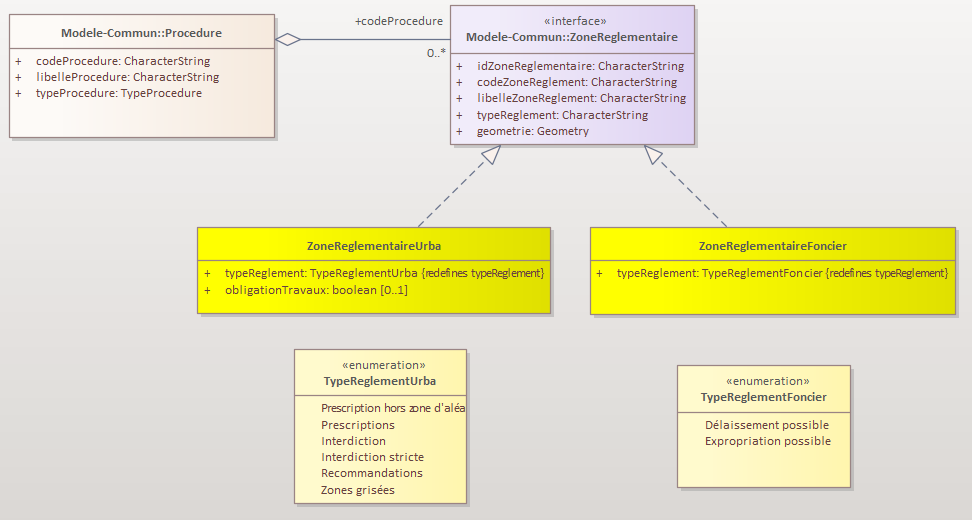
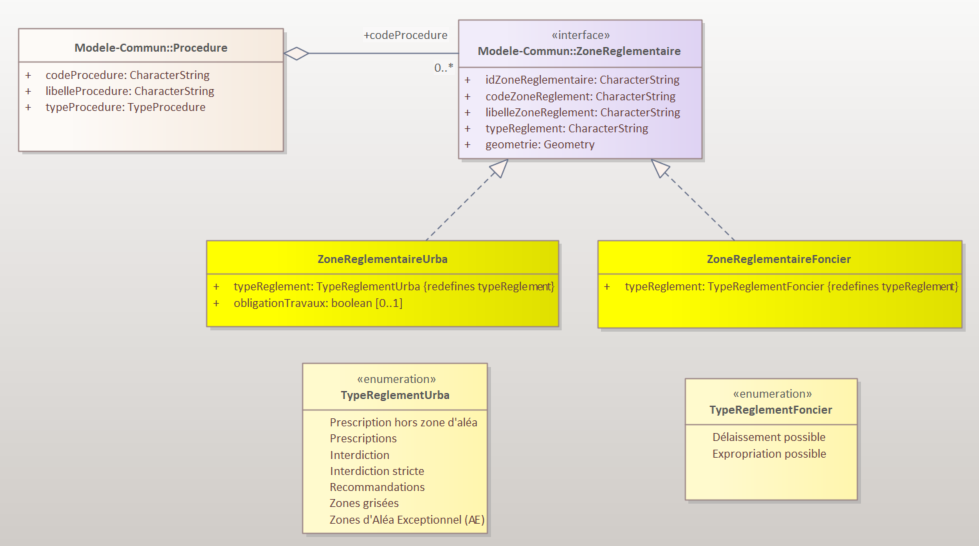
Modifs symbologies (Alea Exceptionnel + correctifs)

diff --git a/standards/Geostandards-risques-ppr/Document.md b/standards/Geostandards-risques-ppr/Document.md
@@ -919,7 +919,8 @@ Le tableau suivant liste les différents types de réglementations possibles pou
 | Interdiction | Réglementation faisant prévaloir le principe d'interdiction mais où certaines constructions peuvent être autorisées sous réserve du respect de prescriptions strictes |
 | Interdiction stricte | Réglementation imposant une interdiction stricte. |
 | Recommandations | Réglementation appliquant des recommandations (non obligatoires) en terme d'aménagement pour les projets futurs uniquement. |
-| Zone grisées | Les zones grisées sont définies dans le contexte des PPRT et représentent l'emprise foncière des installations objet du PPRT qui correspondent à une zone d'interdiction de tout batiment ou activité ou usage non liés aux installations. Ces interdictions ne sont  pas motivées par l’aléa mais sont destinées à enclencher une révision du PPRT si l’exploitant venait à se séparer de tout ou partie de son terrain. | 
+| Zones grisées | Les zones grisées sont définies dans le contexte des PPRT et représentent l'emprise foncière des installations objet du PPRT qui correspondent à une zone d'interdiction de tout batiment ou activité ou usage non liés aux installations. Ces interdictions ne sont  pas motivées par l’aléa mais sont destinées à enclencher une révision du PPRT si l’exploitant venait à se séparer de tout ou partie de son terrain. | 
+| Zones d'aléa exceptionnel (AE) | Zones couvertes par l'[aléa de référence exceptionnel](#classe-dobjets-zonealeaexceptionnel) pour les avalanches pour lesquelles des mesures de prescriptions urbanistiques spécifiques peuvent s'appliquer visant notamment les équipements nécessaires à l’organisation d’évacuation et plus généralement à la gestion des situations dangereuses. |
 
 
 #### Enumeration *TypeReglementFoncier*
@@ -1142,6 +1143,7 @@ Les données PPR ne font pas l'objet de mise à jour systématique. Les données
 
 
 #  Règles de symbologie
+te
 
 Cette partie reprend et adapte pour ce standard les recommandations de représentation des entités décrivant les niveaux d'aléas et les types de zonages réglementaire énoncées dans les anciens standards COVADIS PPR Naturels et Technologiques et PPR Miniers, en accord avec les guides d'élaboration qui leur sont dédiés. 
 
@@ -1159,12 +1161,13 @@ Ces couleurs sont à appliquer à une trame hachurée transparente et un contour
 | Niveau d'aléa | PPRN | PPRT | PPRM |
 |-|-|-|-|
 | Faible | R143 V188 B143 ![StyleAleaFaiblePPR](./ressources/couleur-alea-pprntm-01-faible.png) | R143 V188 B143 ![StyleAleaFaiblePPR](./ressources/couleur-alea-pprntm-01-faible.png)  | R143 V188 B143 ![StyleAleaFaiblePPR](./ressources/couleur-alea-pprntm-01-faible.png) |
-| Moyen | R135 V206 B250 ![StyleAleaMoyenPPRNT](./ressources/couleur-alea-pprnt-02-m.png) | R135 V206 B250 ![StyleAleaMoyenPPRNT](./ressources/couleur-alea-pprnt-02-m.png) | R238 V221 B130 ![StyleAleaMoyenPPRM](./ressources/couleur-alea-pprm-02-m.png)
+| Moyen ou Modéré | R135 V206 B250 ![StyleAleaMoyenPPRNT](./ressources/couleur-alea-pprnt-02-m.png) | R135 V206 B250 ![StyleAleaMoyenPPRNT](./ressources/couleur-alea-pprnt-02-m.png) | R238 V221 B130 ![StyleAleaMoyenPPRM](./ressources/couleur-alea-pprm-02-m.png)
 | Moyen plus | N.A. | R176 V196 B222  ![StyleAleaMoyenPlusPPRT](./ressources/couleur-alea-pprt-03-mplus.png) | N.A. |
 | Fort | R245 V222 B179 ![StyleAleaFortPPRNT](./ressources/couleur-alea-pprnt-04-f.png) | R245 V222 B179 ![StyleAleaFortPPRNT](./ressources/couleur-alea-pprnt-04-f.png) | R233 V150 B122 ![StyleAleaFortPPRM](./ressources/couleur-alea-pprm-04-f.png) |
 | Fort plus | N.A. | R238 V221 B130 ![StyleAleaFortPlusPPRT](./ressources/couleur-alea-pprt-05-fplus.png) | N.A. |
-| Très fort | R233 V150 B122 ![StyleAleaTresFortPPRNT](./ressources/couleur-alea-pprnt-06-tf.png) | R233 V150 B122 ![StyleAleaTresFortPPRNT](./ressources/couleur-alea-pprnt-06-tf.png) | N.A. |
-| Très fort plus |  N.A. | R240 V128 B128 ![StyleAleaTresFortPlusPPRT](./ressources/couleur-alea-pprt-07-tfplus.png) | N.A. |
+| Très fort ou Majeur| R233 V150 B122 ![StyleAleaTresFortPPRNT](./ressources/couleur-alea-pprnt-06-tf.png) | R233 V150 B122 ![StyleAleaTresFortPPRNT](./ressources/couleur-alea-pprnt-06-tf.png) | N.A. |
+| Très fort plus ou aggravé |  R240 V128 B128 ![StyleAleaTresFortPlusPPRN](./ressources/couleur-alea-pprt-07-tfplus.png)  | R240 V128 B128 ![StyleAleaTresFortPlusPPRT](./ressources/couleur-alea-pprt-07-tfplus.png) | N.A. |
+| Exceptionnel | Contour jaune. (Cf. [Note ARE DGPR:2022](https://www.georisques.gouv.fr/sites/default/files/2022-09/note_ARE_janvier_2022_version_finale.pdf))   | N.A. | N.A. |
 
 
 
@@ -1185,7 +1188,8 @@ Ces couleurs sont à appliquer à une trame pleine transparente et un contour é
 | Prescriptions | R0 V0 B255 ![StyleReg02PPR](./ressources/couleur-reg-pprnmt-02.png) | R0 V0 B255 ![StyleReg02PPR](./ressources/couleur-reg-pprnmt-02.png) | R0 V0 B255 ![StyleReg02PPR](./ressources/couleur-reg-pprnmt-02.png) |
 | Interdiction | R255 V96 B96 ![StyleReg03PPRNT](./ressources/couleur-reg-pprnt-03.png) | R255 V96 B96 ![StyleReg03PPRNT](./ressources/couleur-reg-pprnt-03.png) | Non défini |
 | Interdiction stricte | R224 V0 B0 ![StyleReg04PPR](./ressources/couleur-reg-pprnmt-04.png) | R224 V0 B0 ![StyleReg04PPR](./ressources/couleur-reg-pprnmt-04.png) | R224 V0 B0 ![StyleReg04PPR](./ressources/couleur-reg-pprnmt-04.png) |
-| Zone grisées | R188 V188 B188 ![StyleRegGrisPPRT](./ressources/couleur-reg-pprt-gris.png) | N.A. | N.A. |
+| Zone grisées | N.A. | R188 V188 B188 ![StyleRegGrisPPRT](./ressources/couleur-reg-pprt-gris.png) | N.A. |
+| Zones d'aléa exceptionnel (AE) | ![StyleRegJaunePPRNAE](./ressources/couleur-reg-pprn-ae.png) | N.A. | N.A. |
 
 
 ### Représentation des types de réglementations foncières
@@ -1194,7 +1198,7 @@ Ces couleurs sont à appliquer à une trame pleine transparente et un contour é
 | Type de réglementation | PPRN et PPRT | PPRM |
 |-|-|-|
 | Délaissement possible | R201 V147 B255 ![StyleReg05PPRNT](./ressources/couleur-reg-pprnt-05.png) | Non Défini |
-| Expropriation possible | R154 V53 B155 ![StyleReg06PPRNT](./ressources/couleur-reg-pprnt-06.png) | Non Défini|
+| Expropriation possible | R154 V53 B155 ![StyleReg06PPRNT](./ressources/couleur-reg-pprnt-06.png) | Non Défini |
 
 
 
